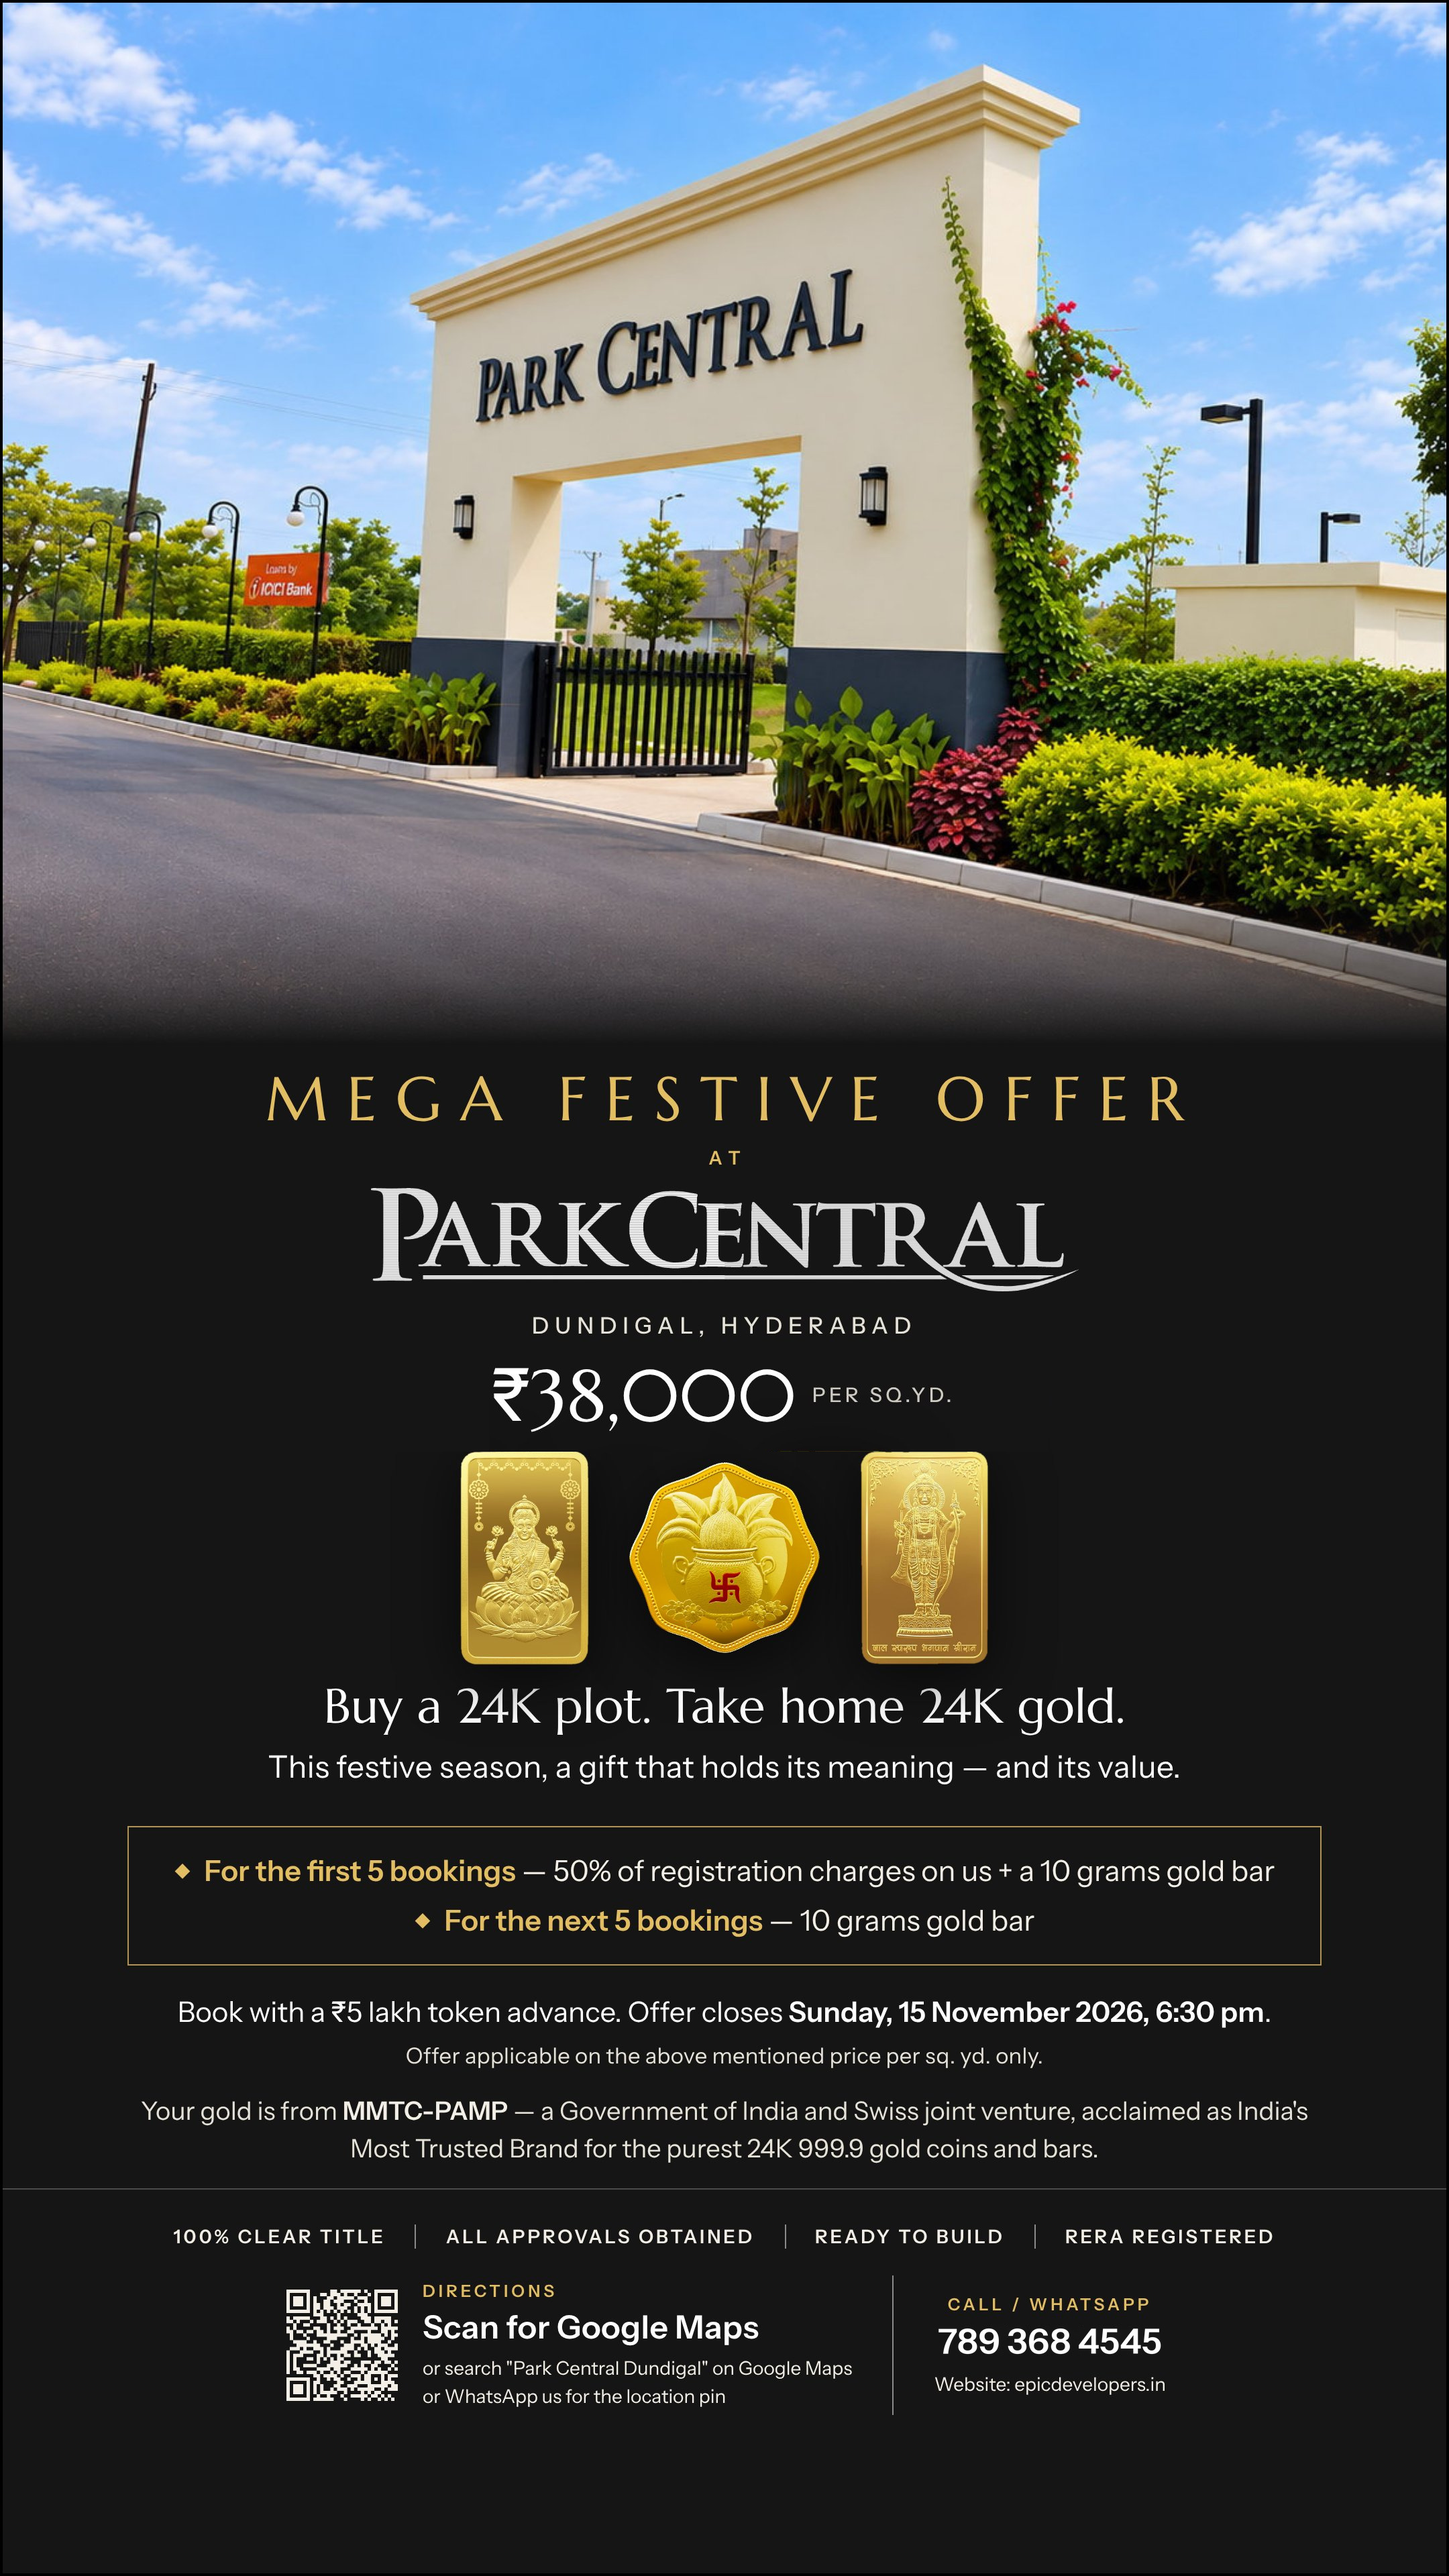
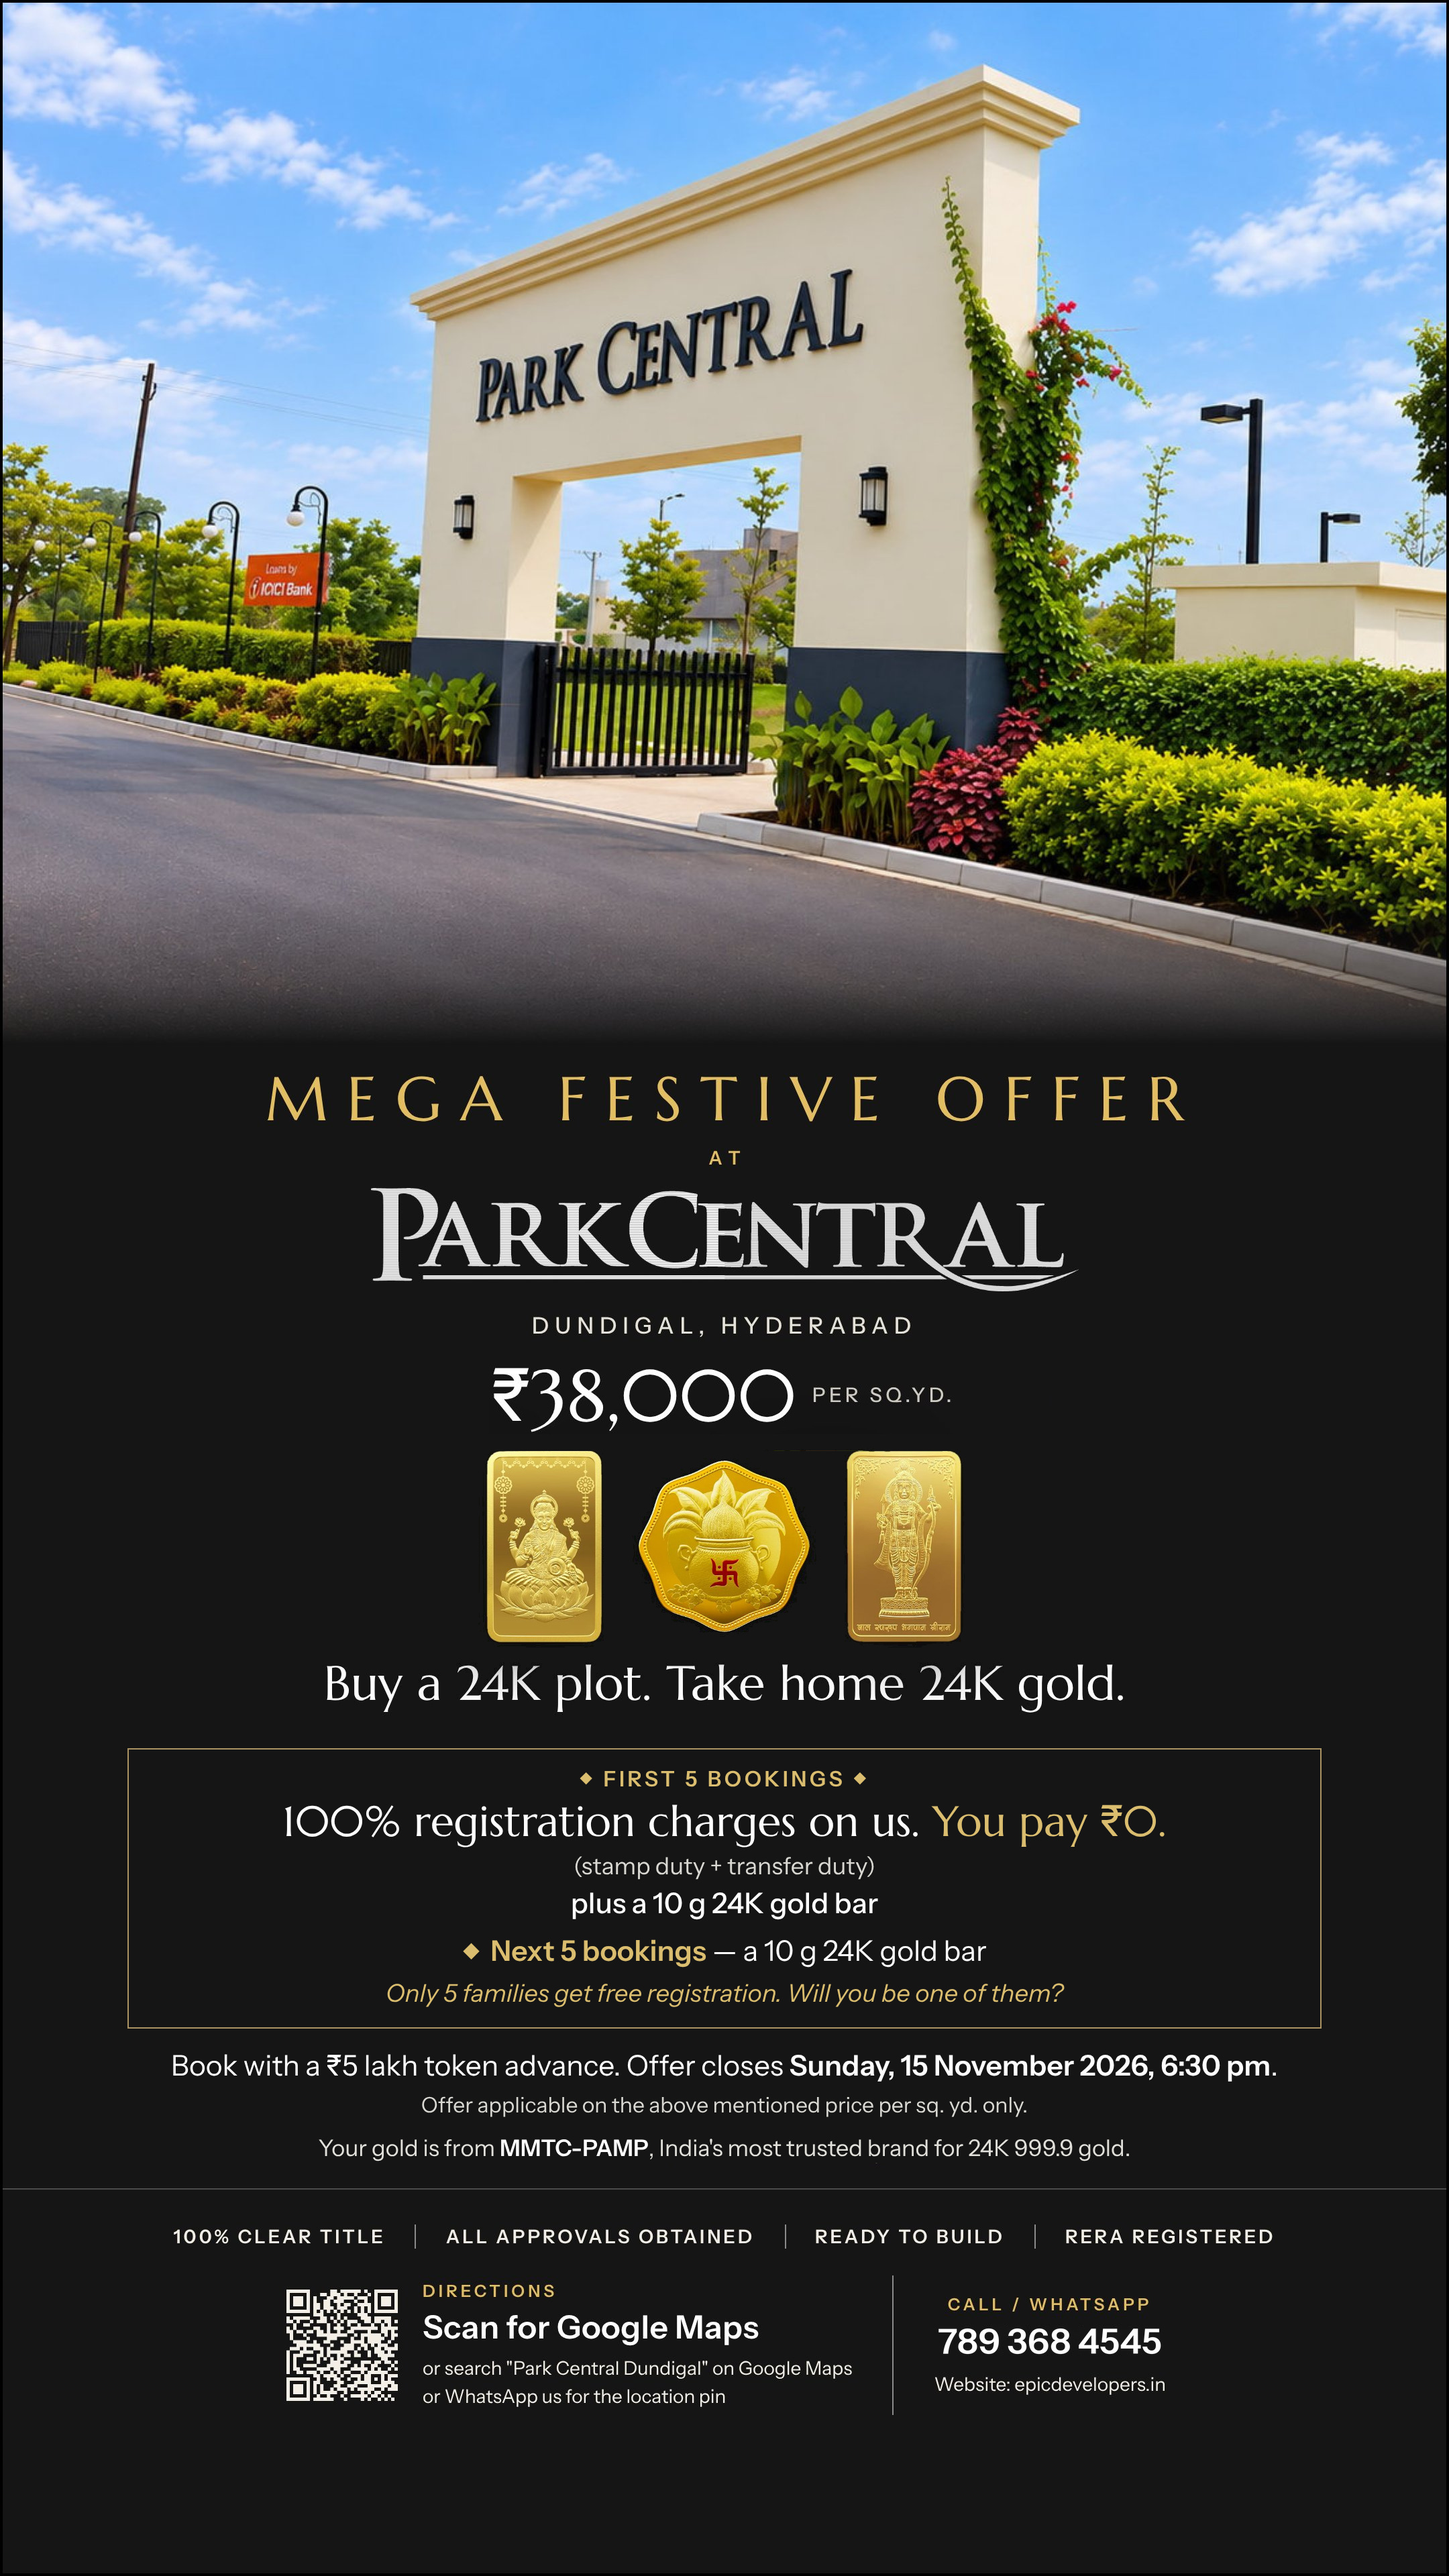
Offer creatives + link card: 100% registration charges on us (stamp duty + transfer duty), you pay ₹0
Claude-Session: https://claude.ai/code/session_014hxhTrdaTjMqW6uKmpSwqj

Changed region(s): [[0.1241, 0.5625, 0.8685, 0.8438], [0.8065, 0.7188, 0.8375, 0.75]]

diff --git a/offer/index.html b/offer/index.html
@@ -23,7 +23,7 @@
 <meta name="description" content="Mega Festive Offer at Park Central, Dundigal — first 5 bookings: 100% registration charges on us (stamp duty + transfer duty). You pay ₹0, plus a 10 g 24K gold bar. ₹38,000 per sq.yd. Offer closes Sunday, 15 November 2026, 6:30 pm.">
 <meta property="og:title" content="Mega Festive Offer at Park Central, Dundigal">
 <meta property="og:description" content="First 5 bookings: 100% registration charges on us (stamp duty + transfer duty). You pay ₹0, plus a 10 g 24K gold bar. ₹38,000 per sq.yd. Closes 15 Nov 2026, 6:30 pm.">
-<meta property="og:image" content="https://epicdevelopers.in/offer/link-card.jpg?v=4">
+<meta property="og:image" content="https://epicdevelopers.in/offer/link-card.jpg?v=5">
 <meta property="og:image:width" content="1200">
 <meta property="og:image:height" content="630">
 <meta property="og:url" content="https://epicdevelopers.in/offer/">
